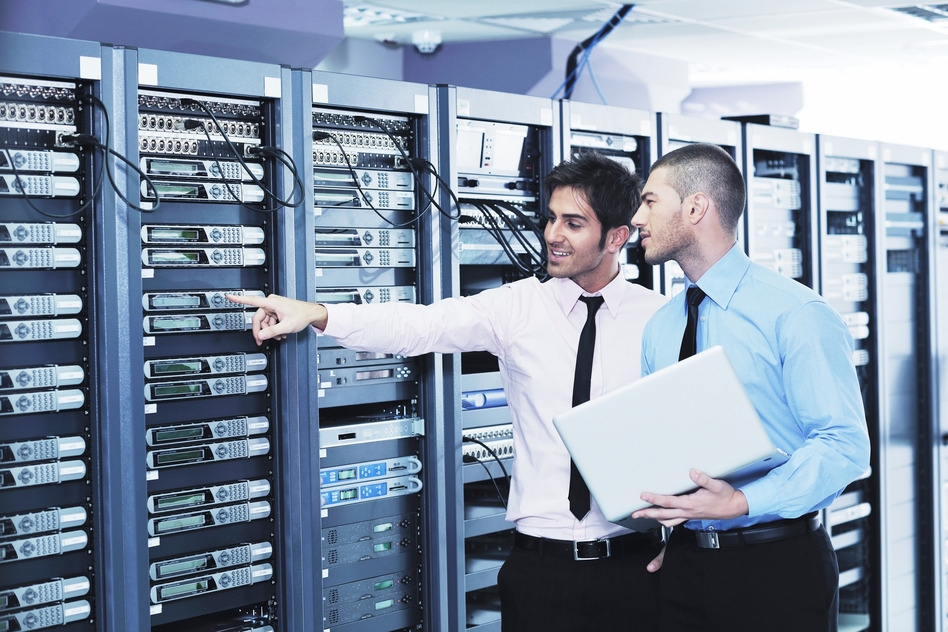
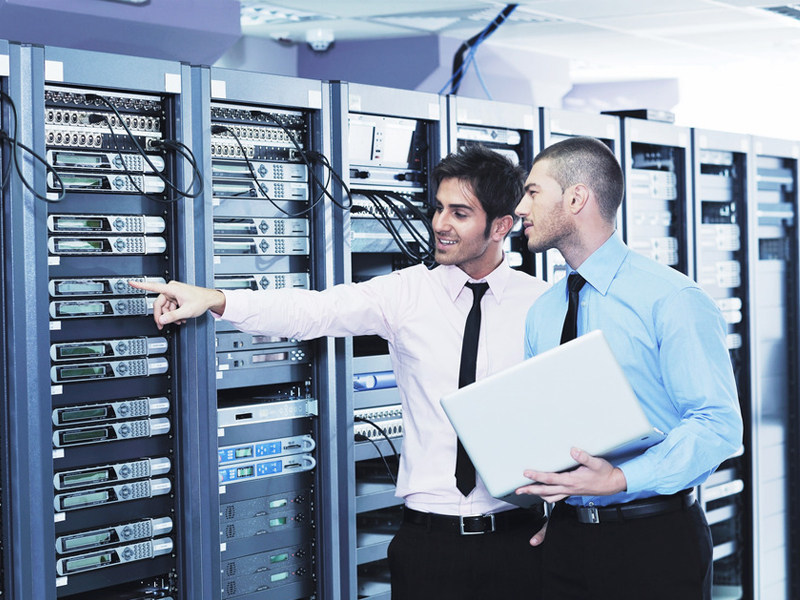
* Jobprofile images updated

diff --git a/app/templates/main.tpl.html b/app/templates/main.tpl.html
@@ -59,7 +59,7 @@
                         <md-button ng-click="toggleCheckBox('jobs', 'ITM')">
                             <div flex="auto" class="" layout="row" layout-align="left center">
                                 <div flex="30" class="media">
-                                    <img src="assets/images/jobprofiles/it-management.jpeg">
+                                    <img src="assets/images/jobprofiles/it-management.jpg">
                                 </div>
                                 <div flex="60">
                                     <div class="md-grid-text">IT-Management</div>
